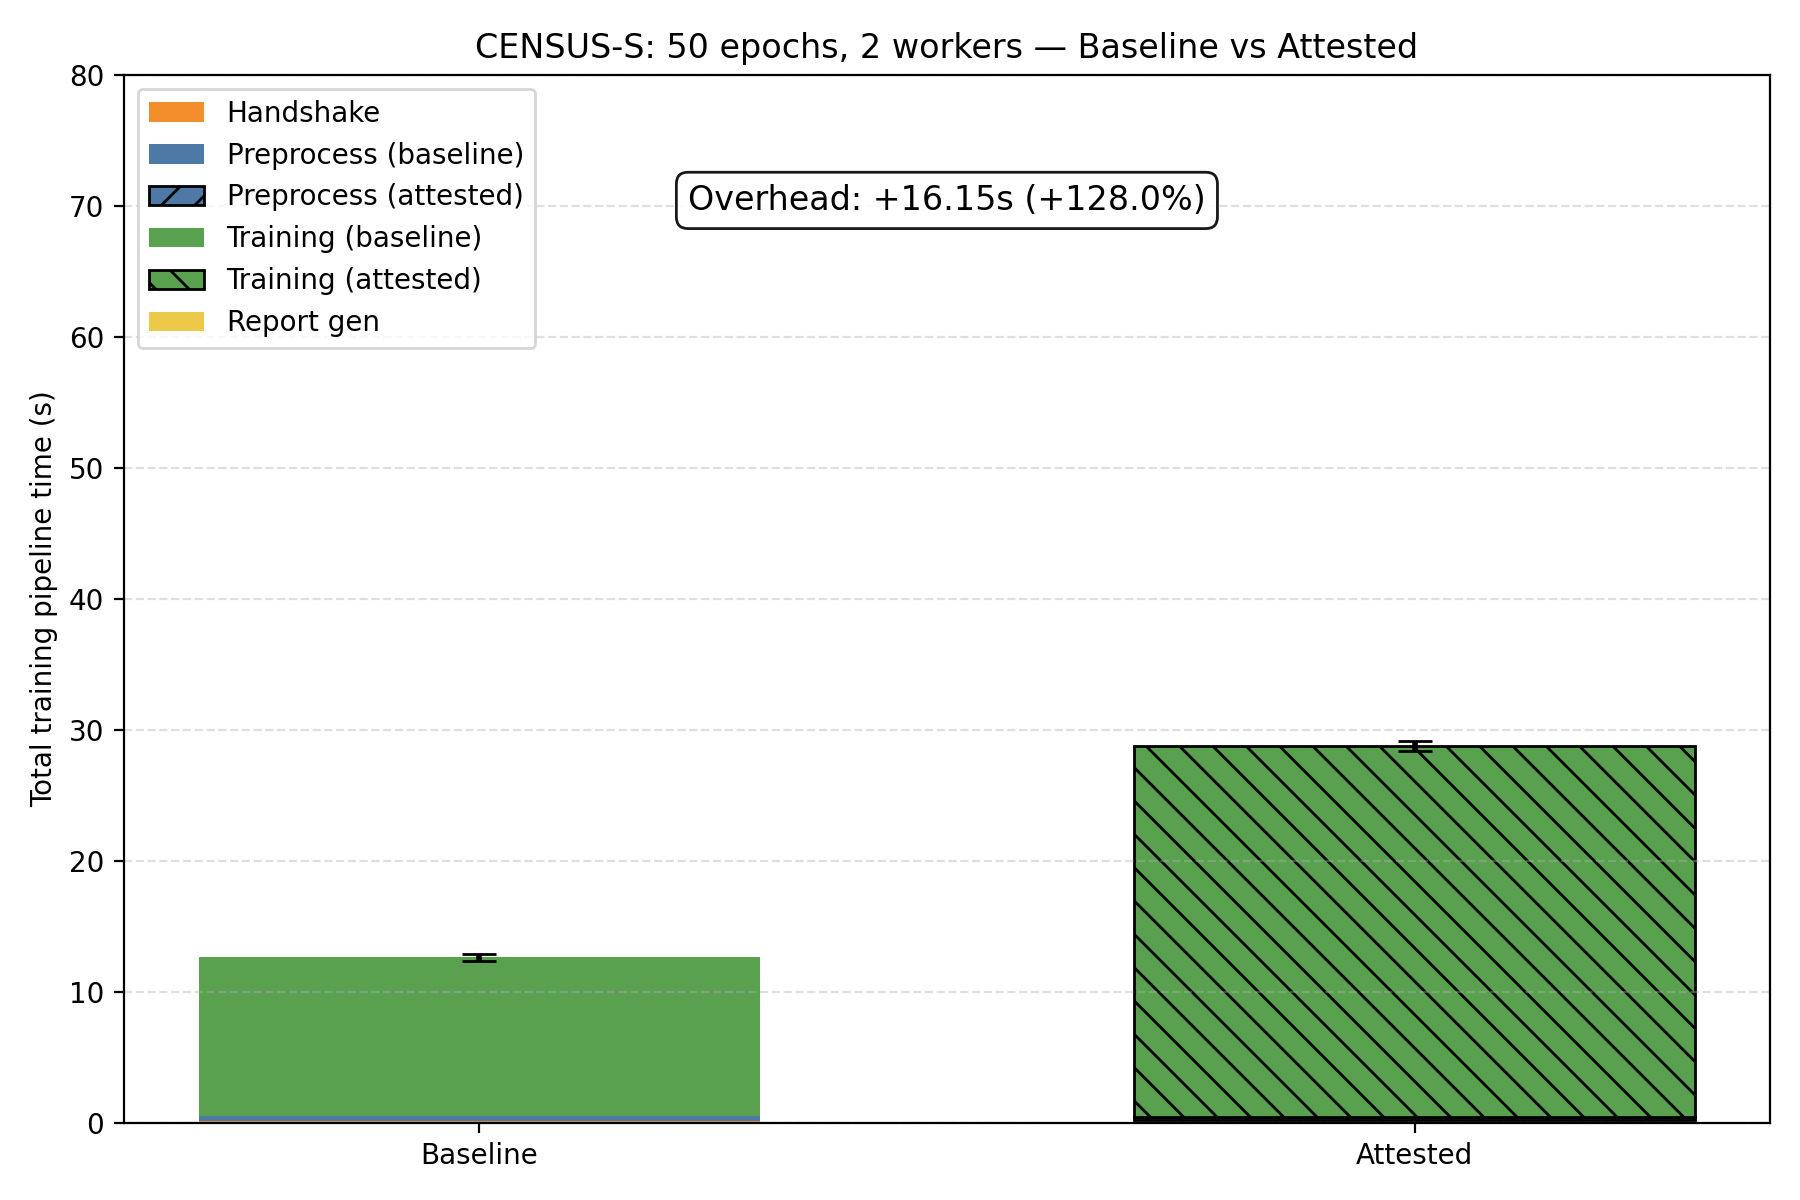
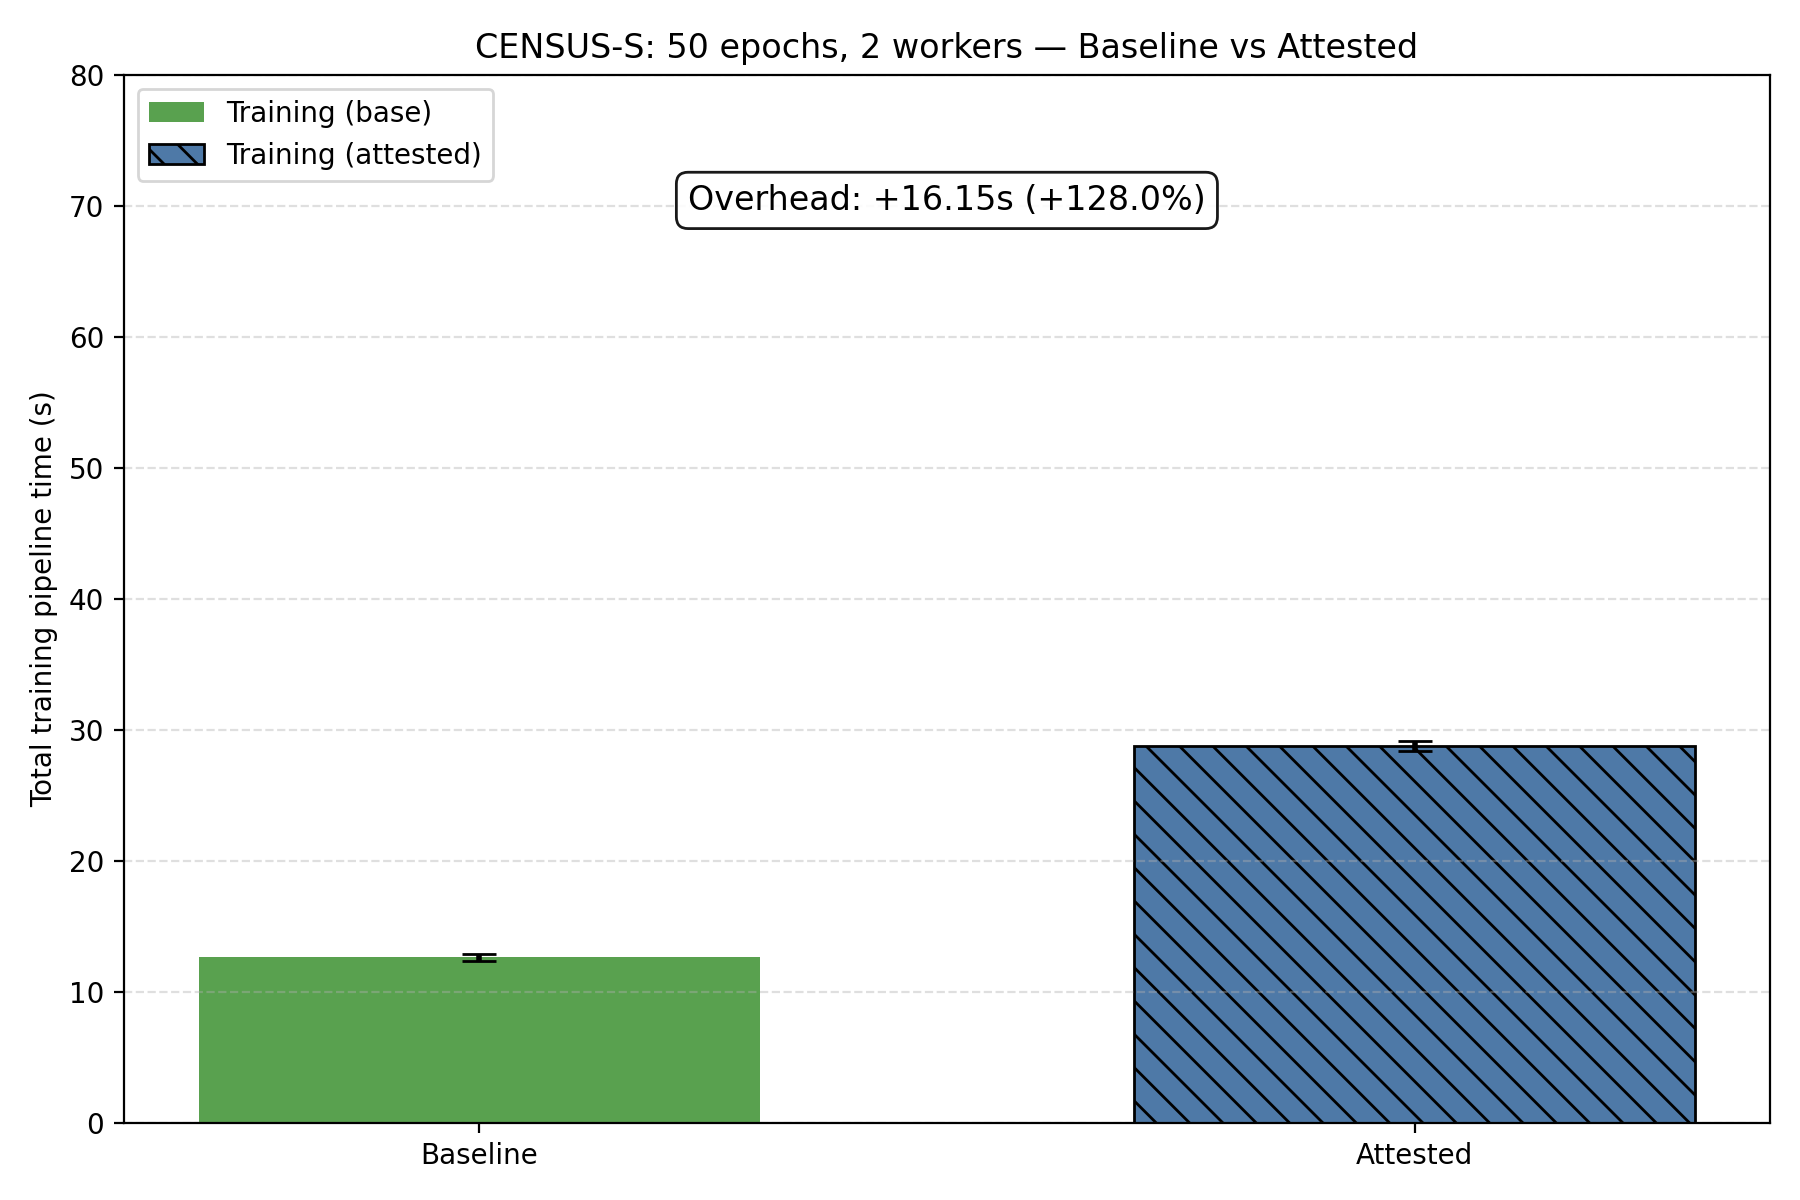
Made graphs more report-friendly

Changed region(s): [[0.6222, 0.6167, 0.9644, 0.9558], [0.0622, 0.0617, 0.3111, 0.3083], [0.1244, 0.925, 0.4044, 0.9558]]

diff --git a/Analysis/scalability-tests/results_parse.py b/Analysis/scalability-tests/results_parse.py
@@ -255,12 +255,8 @@ for (e, w) in pairs:
         # skip incomplete pairs
         continue
 
-    # Component means
-    b_hs, b_pre, b_train = b["handshake_mean"], b["preprocess_mean"], b["training_mean"]
-    a_hs, a_pre, a_train, a_rep = a["handshake_mean"], a["preprocess_mean"], a["training_mean"], a["report_mean"]
-
-    # Totals & 1σ (baseline uses baseline_like_total)
-    b_total, b_std = b["baseline_like_total_mean"], b["baseline_like_total_std"]
+    # Use full pipeline totals (already include handshake, preprocess, training, report where present)
+    b_total, b_std = b["total_mean"], b["total_std"]
     a_total, a_std = a["total_mean"], a["total_std"]
 
     # X positions: left=baseline, right=attested
@@ -268,20 +264,13 @@ for (e, w) in pairs:
 
     fig, ax = plt.subplots(figsize=(9, 6))
 
-    # --- Baseline stacked bar (handshake + preprocess + training) ---
-    b1 = ax.bar(x_baseline, b_hs, width=0.6, color=C_HS, label="Handshake (baseline)")
-    b2 = ax.bar(x_baseline, b_pre, width=0.6, bottom=b_hs, color=C_PRE, label="Preprocess (baseline)")
-    b3 = ax.bar(x_baseline, b_train, width=0.6, bottom=b_hs + b_pre, color=C_TRAIN, label="Training (baseline)")
+    # --- Baseline bar (total pipeline) ---
+    b_bar = ax.bar(x_baseline, b_total, width=0.6, color=C_TRAIN, label="Training (base)")
     # Error bar on total height
     ax.errorbar([x_baseline], [b_total], yerr=[b_std], fmt="none", capsize=6, elinewidth=2, ecolor="black")
 
-    # --- Attested stacked bar (handshake + preprocess + training + report) ---
-    a_stack1 = ax.bar(x_attest, a_hs, width=0.6, color=C_HS, label="Handshake")
-    a_stack2 = ax.bar(x_attest, a_pre, width=0.6, bottom=a_hs, color=C_PRE,
-                      hatch="//", edgecolor="black", label="Preprocess (attested)")
-    a_stack3 = ax.bar(x_attest, a_train, width=0.6, bottom=a_hs + a_pre, color=C_TRAIN,
-                      hatch="\\\\", edgecolor="black", label="Training (attested)")
-    a_stack4 = ax.bar(x_attest, a_rep, width=0.6, bottom=a_hs + a_pre + a_train, color=C_REP, label="Report gen")
+    # --- Attested bar (total pipeline) ---
+    a_bar = ax.bar(x_attest, a_total, width=0.6, color=C_PRE, hatch="\\\\", edgecolor="black", label="Training (attested)")
     # Error bar on total height
     ax.errorbar([x_attest], [a_total], yerr=[a_std], fmt="none", capsize=6, elinewidth=2, ecolor="black")
 
@@ -298,12 +287,8 @@ for (e, w) in pairs:
 
     # Legend (clean + non-duplicative)
     legend_handles = [
-        Patch(facecolor=C_HS, label="Handshake"),
-        Patch(facecolor=C_PRE, label="Preprocess (baseline)"),
-        Patch(facecolor=C_PRE, hatch="//", edgecolor="black", label="Preprocess (attested)"),
-        Patch(facecolor=C_TRAIN, label="Training (baseline)"),
-        Patch(facecolor=C_TRAIN, hatch="\\\\", edgecolor="black", label="Training (attested)"),
-        Patch(facecolor=C_REP, label="Report gen"),
+        Patch(facecolor=C_TRAIN, label="Training (base)"),
+        Patch(facecolor=C_PRE, hatch="\\\\", edgecolor="black", label="Training (attested)"),
     ]
     ax.legend(handles=legend_handles, loc="upper left", frameon=True)
 
@@ -330,3 +315,73 @@ for (e, w) in pairs:
     plt.close()
 
 print("Wrote per-config figures to: ./figs/ (e.g., figs/census_s_10e_2w.png)")
+
+
+def plot_combined_grid():
+    """3x3 grid: rows=epochs, cols=workers; each cell shows baseline vs attested stacked bars."""
+    uniq_epochs = sorted({int(x) for x in agg["epochs"].unique()})
+    uniq_workers = sorted({int(x) for x in agg["workers"].unique()})
+
+    # Slightly more compact vertical space
+    fig, axes = plt.subplots(len(uniq_epochs), len(uniq_workers), figsize=(4 * len(uniq_workers), 3.3 * len(uniq_epochs)), sharey=True)
+    if len(uniq_epochs) == 1 and len(uniq_workers) == 1:
+        axes = np.array([[axes]])
+    elif len(uniq_epochs) == 1 or len(uniq_workers) == 1:
+        axes = np.array(axes).reshape(len(uniq_epochs), len(uniq_workers))
+
+    # Compute a common ymax
+    ymax = agg["total_pipeline_mean_s"].max() * 1.10
+
+    for i, e in enumerate(uniq_epochs):
+        for j, w in enumerate(uniq_workers):
+            ax = axes[i][j]
+            b = get_group_mean_std(e, w, "baseline")
+            a = get_group_mean_std(e, w, "attested")
+            if b is None or a is None:
+                ax.axis("off")
+                continue
+
+            b_total, b_std = b["total_mean"], b["total_std"]
+            a_total, a_std = a["total_mean"], a["total_std"]
+
+            x_baseline, x_attest = -0.15, 0.15
+
+            ax.bar(x_baseline, b_total, width=0.25, color=C_TRAIN)
+            ax.errorbar([x_baseline], [b_total], yerr=[b_std], fmt="none", capsize=4, elinewidth=1.5, ecolor="black")
+
+            ax.bar(x_attest, a_total, width=0.25, color=C_PRE, hatch="\\\\", edgecolor="black")
+            ax.errorbar([x_attest], [a_total], yerr=[a_std], fmt="none", capsize=4, elinewidth=1.5, ecolor="black")
+
+            ax.set_title(f"{e}e, {w}w", fontsize=10)
+            ax.set_xticks([x_baseline, x_attest], ["Base", "Att"])
+            ax.set_ylim(0, ymax)
+            ax.grid(axis="y", linestyle="--", alpha=0.35)
+            if j == 0:
+                ax.set_ylabel("Time (s)")
+
+            # Add overhead sticker using summary_lut if available
+            oh = summary_lut.get((e, w))
+            if oh:
+                sticker = f"+{oh['overhead_abs']:.1f}s (+{oh['overhead_pct']:.0f}%)"
+                ax.text(
+                    0.5, 0.85, sticker,
+                    transform=ax.transAxes,
+                    ha="center", va="center",
+                    bbox=dict(boxstyle="round,pad=0.25", fc="white", ec="black", alpha=0.85),
+                    fontsize=9
+                )
+
+    legend_handles = [
+        Patch(facecolor=C_TRAIN, label="Training (base)"),
+        Patch(facecolor=C_PRE, hatch="\\\\", edgecolor="black", label="Training (attested)"),
+    ]
+    fig.legend(handles=legend_handles, loc="upper center", ncol=2, frameon=True, bbox_to_anchor=(0.5, 0.96))
+    fig.suptitle("CENSUS-S scalability: baseline vs attested (shared Y-axis)", y=0.98)
+    plt.tight_layout(rect=[0, 0, 1, 0.97])
+    out_path = "figs/census_s_scalability_combined_grid.png"
+    plt.savefig(out_path, dpi=200)
+    plt.close()
+    print(f"Wrote combined grid: {out_path}")
+
+
+plot_combined_grid()

diff --git a/Analysis/performance-tests/results_parse.py b/Analysis/performance-tests/results_parse.py
@@ -182,6 +182,7 @@ def plot_bar(model, mode, subset):
     plt.title(f"{model} ({mode}) — subcomponent breakdown")
     plt.grid(axis="y", linestyle="--", alpha=0.4)
     plt.legend(handles=handles, loc="upper left", frameon=True)
+
     plt.tight_layout()
     out_path = fig_dir / f"{model.lower()}_{mode}_breakdown.png"
     plt.savefig(out_path, dpi=200)
@@ -250,6 +251,37 @@ def plot_grid(all_rows: pd.DataFrame):
     fig.legend(handles=legend_handles, loc="upper center", ncol=4, frameon=True, bbox_to_anchor=(0.5, 1.00))
     fig.suptitle("Subcomponent breakdown (mean) — shared Y-axis", y=1.05)
     plt.tight_layout(rect=[0, 0, 1, 0.98])
+    # Overhead stickers between baseline/attested pairs (CENSUS-S row and CENSUS-L row)
+    def overhead_text(model_name):
+        base_row = all_rows[(all_rows["model"] == model_name) & (all_rows["mode"] == "baseline")]
+        att_row = all_rows[(all_rows["model"] == model_name) & (all_rows["mode"] == "attested")]
+        if base_row.empty or att_row.empty:
+            return None
+        b = float(base_row.iloc[0]["pipeline_total_mean_s"])
+        a = float(att_row.iloc[0]["pipeline_total_mean_s"])
+        if b <= 0:
+            return None
+        return f"Overhead: +{(a-b):.2f}s (+{(100*(a-b)/b):.1f}%)"
+
+    stickers = {
+        "CENSUS-S": overhead_text("CENSUS-S"),
+        "CENSUS-L": overhead_text("CENSUS-L"),
+    }
+    # Place stickers roughly between baseline/attested columns for each row (y coords tuned for 2 rows)
+    if stickers.get("CENSUS-S"):
+        fig.text(
+            0.5, 0.72, stickers["CENSUS-S"],
+            ha="center", va="center",
+            bbox=dict(boxstyle="round,pad=0.35", fc="white", ec="black", alpha=0.9),
+            fontsize=12,
+        )
+    if stickers.get("CENSUS-L"):
+        fig.text(
+            0.5, 0.22, stickers["CENSUS-L"],
+            ha="center", va="center",
+            bbox=dict(boxstyle="round,pad=0.35", fc="white", ec="black", alpha=0.9),
+            fontsize=12,
+        )
     out_path = fig_dir / "combined_breakdown_grid.png"
     plt.savefig(out_path, dpi=200)
     plt.close()
